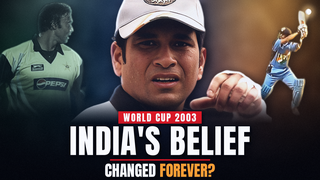
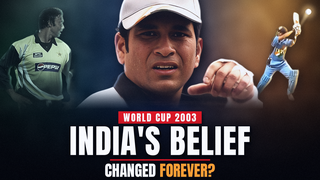
Sharpen thumbnail E: no depth blur, smaller scale-ups, cap crop kept off-frame
Claude-Session: https://claude.ai/code/session_01SQh72PYSr2UGL5osbLDTTd

Changed region(s): [[0.2188, 0.0, 0.9688, 0.6667], [0.0, 0.0, 0.2812, 0.5556], [0.7188, 0.6111, 0.75, 0.6389]]

diff --git a/doc_video/thumb/thumb_wc2003.py b/doc_video/thumb/thumb_wc2003.py
@@ -133,7 +133,7 @@ def place(base, im, x, y, depth=0.0, haze=0.0, wrap=0.55, rim_color=None, rim_si
     inner = np.clip(num / den, 0, 255)
     band = np.clip(1 - core, 0, 1)[..., None] * (den > 0.02)
     rgb = rgb * (1 - band) + inner * band
-    a = arr(img(a * 255, "L").filter(ImageFilter.MinFilter(3)).filter(ImageFilter.GaussianBlur(1.1 + depth))) / 255
+    a = arr(img(a * 255, "L").filter(ImageFilter.MinFilter(3)).filter(ImageFilter.GaussianBlur(0.7 + depth))) / 255
 
     # scene under the subject (for colour match and light wrap)
     x0, y0, x1, y1 = max(0, x), max(0, y), min(W, x + im.width), min(H, y + im.height)
@@ -315,27 +315,29 @@ def main_hq():
     base = background()
 
     # LEFT - Shoaib staring across at Sachin, desaturated and set back
-    sh = load_cut("cut_hq_shoaib_stare.png", 900)
-    sh = regrade(sh, color=0.3, contrast=1.3, bright=0.8, sharpen=(2, 90, 2), tint=(60, 130, 90), tint_k=0.3)
-    sh = directional_light(sh, "right", (225, 240, 230), 0.9)
-    sh = fade_bottom(sh, 420, 700)
-    place(base, sh, -140, 10, depth=1.2, haze=0.12, rim_color=(190, 235, 205), rim_side=1, rim_k=0.35)
+    # sizes keep every still within ~1.2x of its source pixels so nothing is blown up soft
+    sh = load_cut("cut_hq_shoaib_stare.png", 660)
+    sh = regrade(sh, color=0.35, contrast=1.25, bright=0.85, sharpen=(1.2, 110, 1), tint=(60, 130, 90), tint_k=0.25)
+    sh = directional_light(sh, "right", (225, 240, 230), 0.8)
+    sh = fade_bottom(sh, 440, 640)
+    place(base, sh, -40, 40, rim_color=(190, 235, 205), rim_side=1, rim_k=0.3)
 
     # RIGHT - the upper-cut
-    up = load_cut("cut_wc_sachin_uppercut.png", 640)
-    up = regrade(up, color=1.2, contrast=1.15, bright=1.05, sharpen=(2.5, 140, 2))
-    up = directional_light(up, "right", SAFFRON, 0.9)
-    up = fade_bottom(up, 500, 640)
-    ux, uy = W - up.width - 70, 60
-    place(base, up, ux, uy, depth=0.8, haze=0.06, rim_color=GOLD, rim_side=1, rim_k=0.55)
+    up = load_cut("cut_wc_sachin_uppercut.png", 540)
+    up = regrade(up, color=1.15, contrast=1.15, bright=1.05, sharpen=(1.2, 120, 1))
+    up = directional_light(up, "right", SAFFRON, 0.8)
+    up = fade_bottom(up, 430, 540)
+    ux, uy = W - up.width - 110, 70
+    place(base, up, ux, uy, rim_color=GOLD, rim_side=1, rim_k=0.5)
     ball_with_trail(base, W - 70, 70, ux + up.width - 40, uy + 140)
 
     # CENTRE - the hero close-up
-    hero = load_cut("cut_hq_sachin_cap.png", 760)
-    hero = regrade(hero, color=1.08, contrast=1.1, bright=1.06, sharpen=(1.6, 80, 2))
+    hero = load_cut("cut_hq_sachin_cap.png", 700)
+    hero = regrade(hero, color=1.08, contrast=1.1, bright=1.06, sharpen=(1.2, 110, 1))
     hero = directional_light(hero, "left", (255, 214, 170), 0.45)
-    hero = fade_bottom(hero, 600, 740)
-    hx, hy = 960 - int(hero.width * 0.48), 0
+    hero = fade_bottom(hero, 560, 690)
+    # the source photo crops the top of the cap; keep that edge just above the frame
+    hx, hy = 960 - int(hero.width * 0.48), -36
     place(base, hero, hx, hy, wrap=0.45, rim_color=ICE, rim_side=-1, rim_k=0.4, shadow=0.75)
 
     headline(base)
